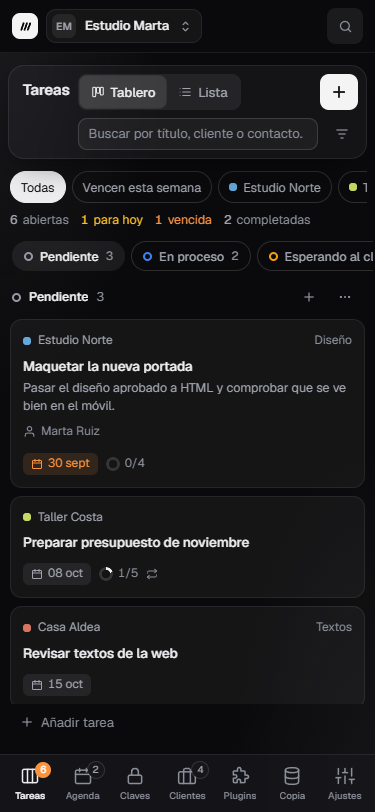
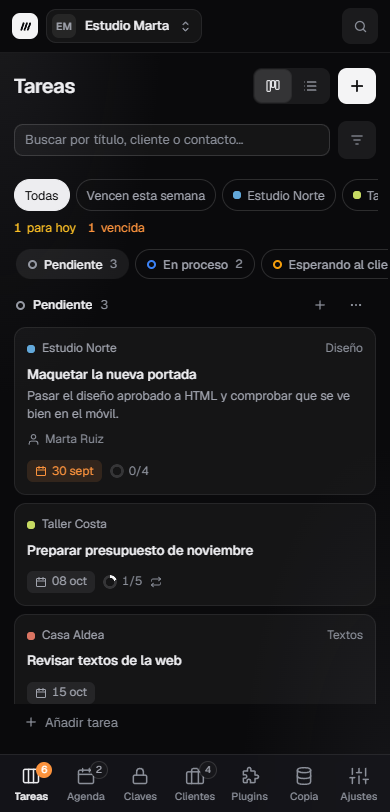
Rediseño: vista de móvil más limpia
En móvil la barra de cada vista deja de ser una tarjeta de cristal: título
grande y acción principal en la primera línea y las herramientas de la sección
a todo el ancho debajo (buscador y filtro; mes, «Hoy», vista y cliente). El
segmentado Tablero/Lista se queda en iconos, el resumen del tablero enseña solo
lo que pide atención, se oculta la leyenda del calendario y el ajuste de
navegación, las acciones de la ficha del cliente caben en una línea y el aviso
del cofre ya no deja el icono suelto.

diff --git a/assets/css/responsive.css b/assets/css/responsive.css
@@ -296,27 +296,68 @@
   input,select,textarea{font-size:16px;}
   #btnNewContact,#btnNew,#calNewMeeting,#btnNewVault{font-size:0;gap:0;width:38px;padding:0;justify-content:center;flex:none;}
   #btnNewContact svg,#btnNew svg,#calNewMeeting svg,#btnNewVault svg{width:18px;height:18px;}
-  /* Tareas: título, vista y «+» en la primera línea; buscador y filtro en la segunda. */
-  .bar-tools[data-bar="tasks"] .segmented{order:1;}
-  .bar-tools[data-bar="tasks"] .bar-push{order:2;}
-  .bar-tools[data-bar="tasks"] #btnNew{order:3;}
-  .bar-tools[data-bar="tasks"] .gh-sync,.bar-tools[data-bar="tasks"] .ext-slot{order:4;}
-  .bar-tools[data-bar="tasks"] .bar-search{order:5;flex:1 1 60%;}
-  .bar-tools[data-bar="tasks"] .bar-filter{order:6;}
-  /* Calendario: mes y «+» arriba; vista y filtro debajo. */
-  .bar-tools[data-bar="calendar"] .cal-nav{order:1;}
-  .bar-tools[data-bar="calendar"] #calToday{order:2;}
-  .bar-tools[data-bar="calendar"] .bar-push{order:3;}
-  .bar-tools[data-bar="calendar"] #calNewMeeting{order:4;}
-  .bar-tools[data-bar="calendar"] .segmented{order:5;}
-  .bar-tools[data-bar="calendar"] .dd{order:6;}
-  .bar-tools[data-bar="calendar"] .ext-slot{order:7;}
-  /* Contraseñas: buscador y «+» arriba; filtros debajo. */
-  .bar-tools[data-bar="vault"] .bar-search{order:1;flex:1 1 50%;}
-  .bar-tools[data-bar="vault"] #btnNewVault{order:2;}
-  .bar-tools[data-bar="vault"] .dd{order:3;}
-  .bar-tools[data-bar="vault"] .bar-push{display:none;}
-  .bar-tools[data-bar="clients"] .bar-push{display:none;}
+  /* ---- Barra de la vista en móvil ----
+     Deja de ser una tarjeta de cristal: título grande y acción principal en la primera línea,
+     y las herramientas de la sección, a todo el ancho, en la segunda. Las herramientas pasan
+     a ser hijas directas de la cabecera (display:contents) para poder ordenarlas. */
+  header.page-head{
+    position:relative;
+    flex-wrap:wrap;
+    align-items:center;
+    gap:8px;
+    min-height:0;
+    padding:2px 2px 0;
+    margin-bottom:12px;
+    background:none;
+    border:0;
+    border-radius:0;
+    box-shadow:none;
+    -webkit-backdrop-filter:none;
+    backdrop-filter:none;
+  }
+  .page-head .titles{order:0;flex:1 1 0;min-width:0;min-height:38px;}
+  .page-head h1{font-size:20px;letter-spacing:-0.02em;overflow:hidden;text-overflow:ellipsis;}
+  .bar-tools:not([hidden]):not(.is-locked){display:contents;}
+  .bar-sep,.bar-push,.bar-meta{display:none;}
+  /* Saltos de línea de la cabecera. */
+  header.page-head::before,header.page-head::after{content:"";flex-basis:100%;height:0;margin:-4px 0;}
+  header.page-head::before{order:3;}
+  header.page-head::after{order:6;}
+  .filter-panel{top:100%;}
+  /* Línea 1: título, vista (solo iconos) y «+». */
+  #taskMode{order:1;}
+  #taskMode button{width:36px;padding:0;font-size:0;gap:0;}
+  #taskMode button svg{width:16px;height:16px;}
+  #btnNew,#calNewMeeting,#btnNewVault,#btnNewContact{order:2;}
+  /* Línea 2. Tareas: buscador y filtro. */
+  .bar-tools[data-bar="tasks"] .bar-search{order:4;flex:1 1 0;}
+  .bar-tools[data-bar="tasks"] .bar-filter{order:4;}
+  .bar-tools[data-bar="tasks"] .bar-filter .icon-only{width:38px;height:38px;background:var(--surface-2);}
+  .bar-tools[data-bar="tasks"] .gh-sync,.bar-tools[data-bar="tasks"] .ext-slot{order:7;}
+  /* Calendario: mes con flechas y «Hoy»; debajo, la vista y el filtro de cliente. */
+  .bar-tools[data-bar="calendar"] .cal-nav{order:4;flex:1 1 0;min-width:0;}
+  .bar-tools[data-bar="calendar"] .cal-month{flex:1;font-size:14px;text-align:center;overflow:hidden;text-overflow:ellipsis;}
+  .bar-tools[data-bar="calendar"] #calToday{order:4;}
+  .bar-tools[data-bar="calendar"] .segmented{order:7;flex:1 1 0;}
+  .bar-tools[data-bar="calendar"] .segmented button{flex:1;padding:0 6px;}
+  .bar-tools[data-bar="calendar"] .dd{order:7;flex:1 1 0;min-width:0;}
+  .bar-tools[data-bar="calendar"] .ext-slot{order:8;}
+  /* Contraseñas y clientes: buscador a todo el ancho; debajo, los filtros. */
+  .bar-tools[data-bar="vault"] .bar-search,.bar-tools[data-bar="clients"] .bar-search{order:4;flex:1 1 100%;}
+  .bar-tools[data-bar="vault"] .dd{order:7;flex:1 1 0;min-width:0;}
+  /* Con un tema sin clientes el filtro desaparece y la vista ocupa la línea. */
+  .cal-legend{display:none;}
+  /* En el resumen del tablero, solo lo que pide atención (los totales ya están en las pestañas). */
+  .summary .stat:not(.is-danger):not(.is-warn):not(.stat-link){display:none;}
+  .summary:not(:has(.is-danger,.is-warn,.stat-link)){display:none;}
+  /* La navegación arriba no se aplica en móvil: su ajuste sobra. */
+  #navRow{display:none;}
+  /* Ficha del cliente: las acciones en una sola línea. */
+  .crm-head-actions{flex-wrap:nowrap;gap:4px;}
+  .crm-head-actions .btn{flex:1 1 0;min-width:0;padding:0 8px;overflow:hidden;text-overflow:ellipsis;}
+  .crm-head-actions .btn svg{display:none;}
+  .crm-head-actions .icon-only{width:34px;height:36px;}
+  .crm-head-actions .icon-only + .icon-only{margin-left:0;}
 }
 @keyframes sheet-in{from{transform:translateY(24px);opacity:.4;}to{transform:none;opacity:1;}}
 
@@ -327,6 +368,8 @@
 }
 
 @media (max-width:380px){
+  .crm-head-actions{flex-wrap:wrap;}
+  .crm-head-actions .btn{flex:1 1 40%;}
   .main{padding-left:8px;padding-right:8px;}
   .board-tabs{margin:0 -8px 10px;padding:0 10px 2px;}
   .tab{font-size:9.5px;}

diff --git a/assets/css/views/vault.css b/assets/css/views/vault.css
@@ -96,7 +96,9 @@
 @media (max-width:520px){
   .vault-card{grid-template-columns:minmax(0,1fr);}
   .pass-row{grid-column:1;grid-row:auto;width:auto;padding-left:38px;}
-  .vault-note{flex-wrap:wrap;}
+  .vault-note{flex-wrap:wrap;align-items:flex-start;}
+  .vault-note > svg{margin-top:2px;}
+  .vault-note > span{flex:1 1 0;min-width:0;}
   .vault-note .btn{margin-left:26px;}
 }
 
